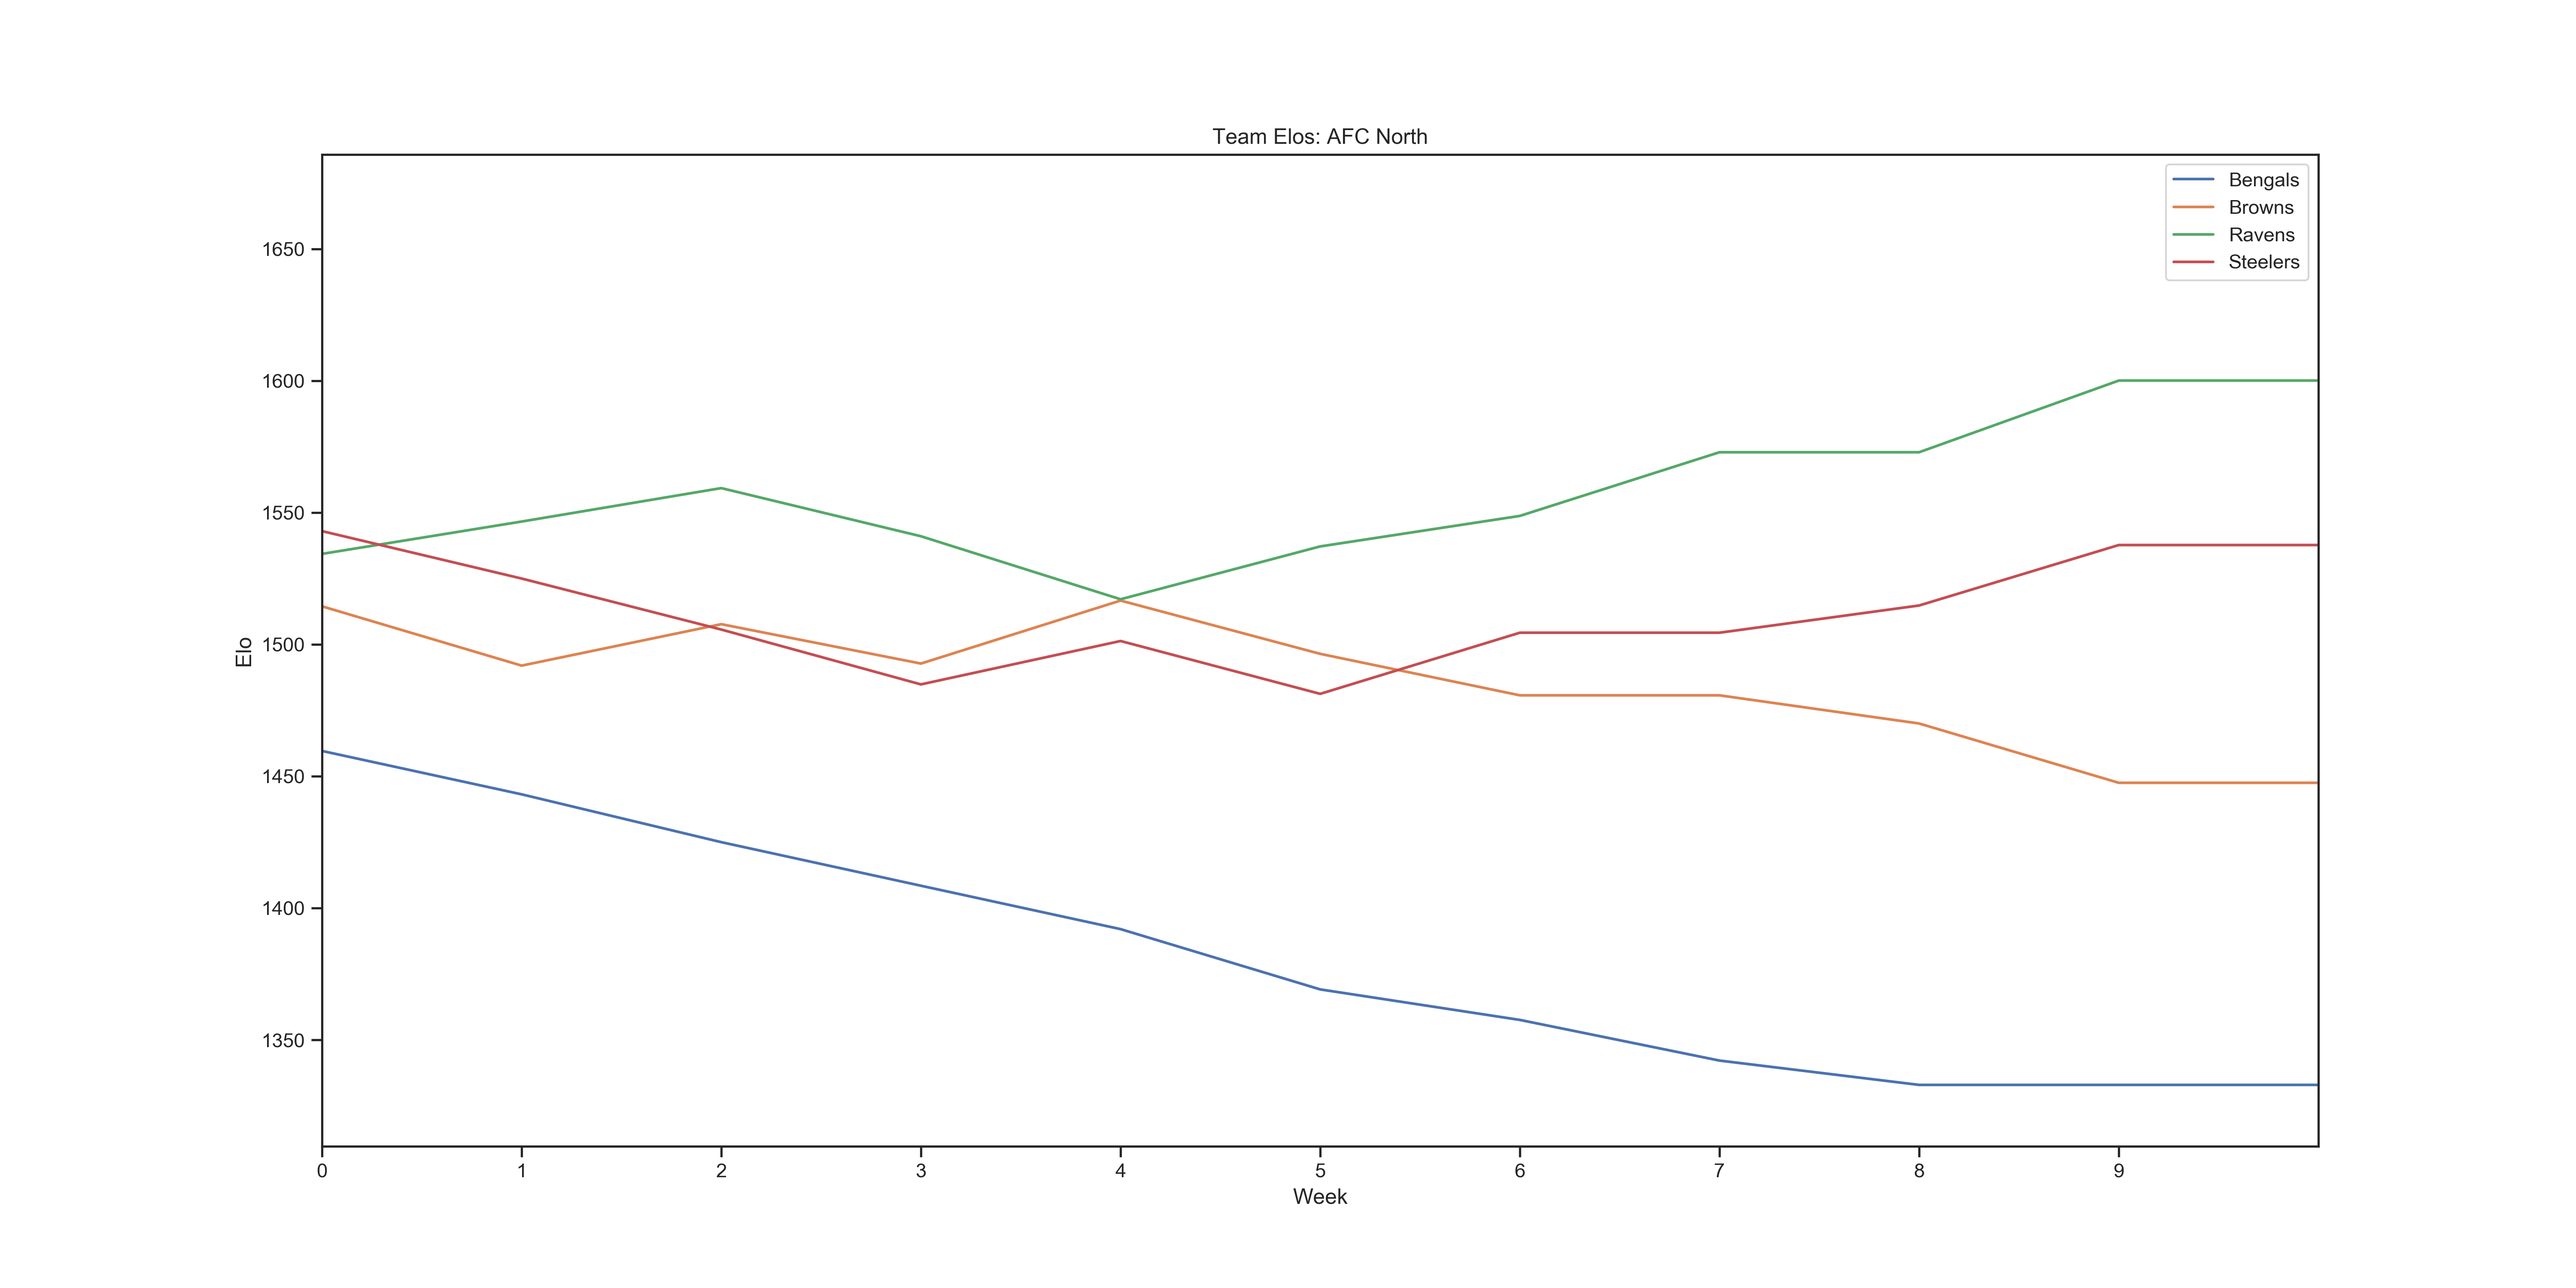
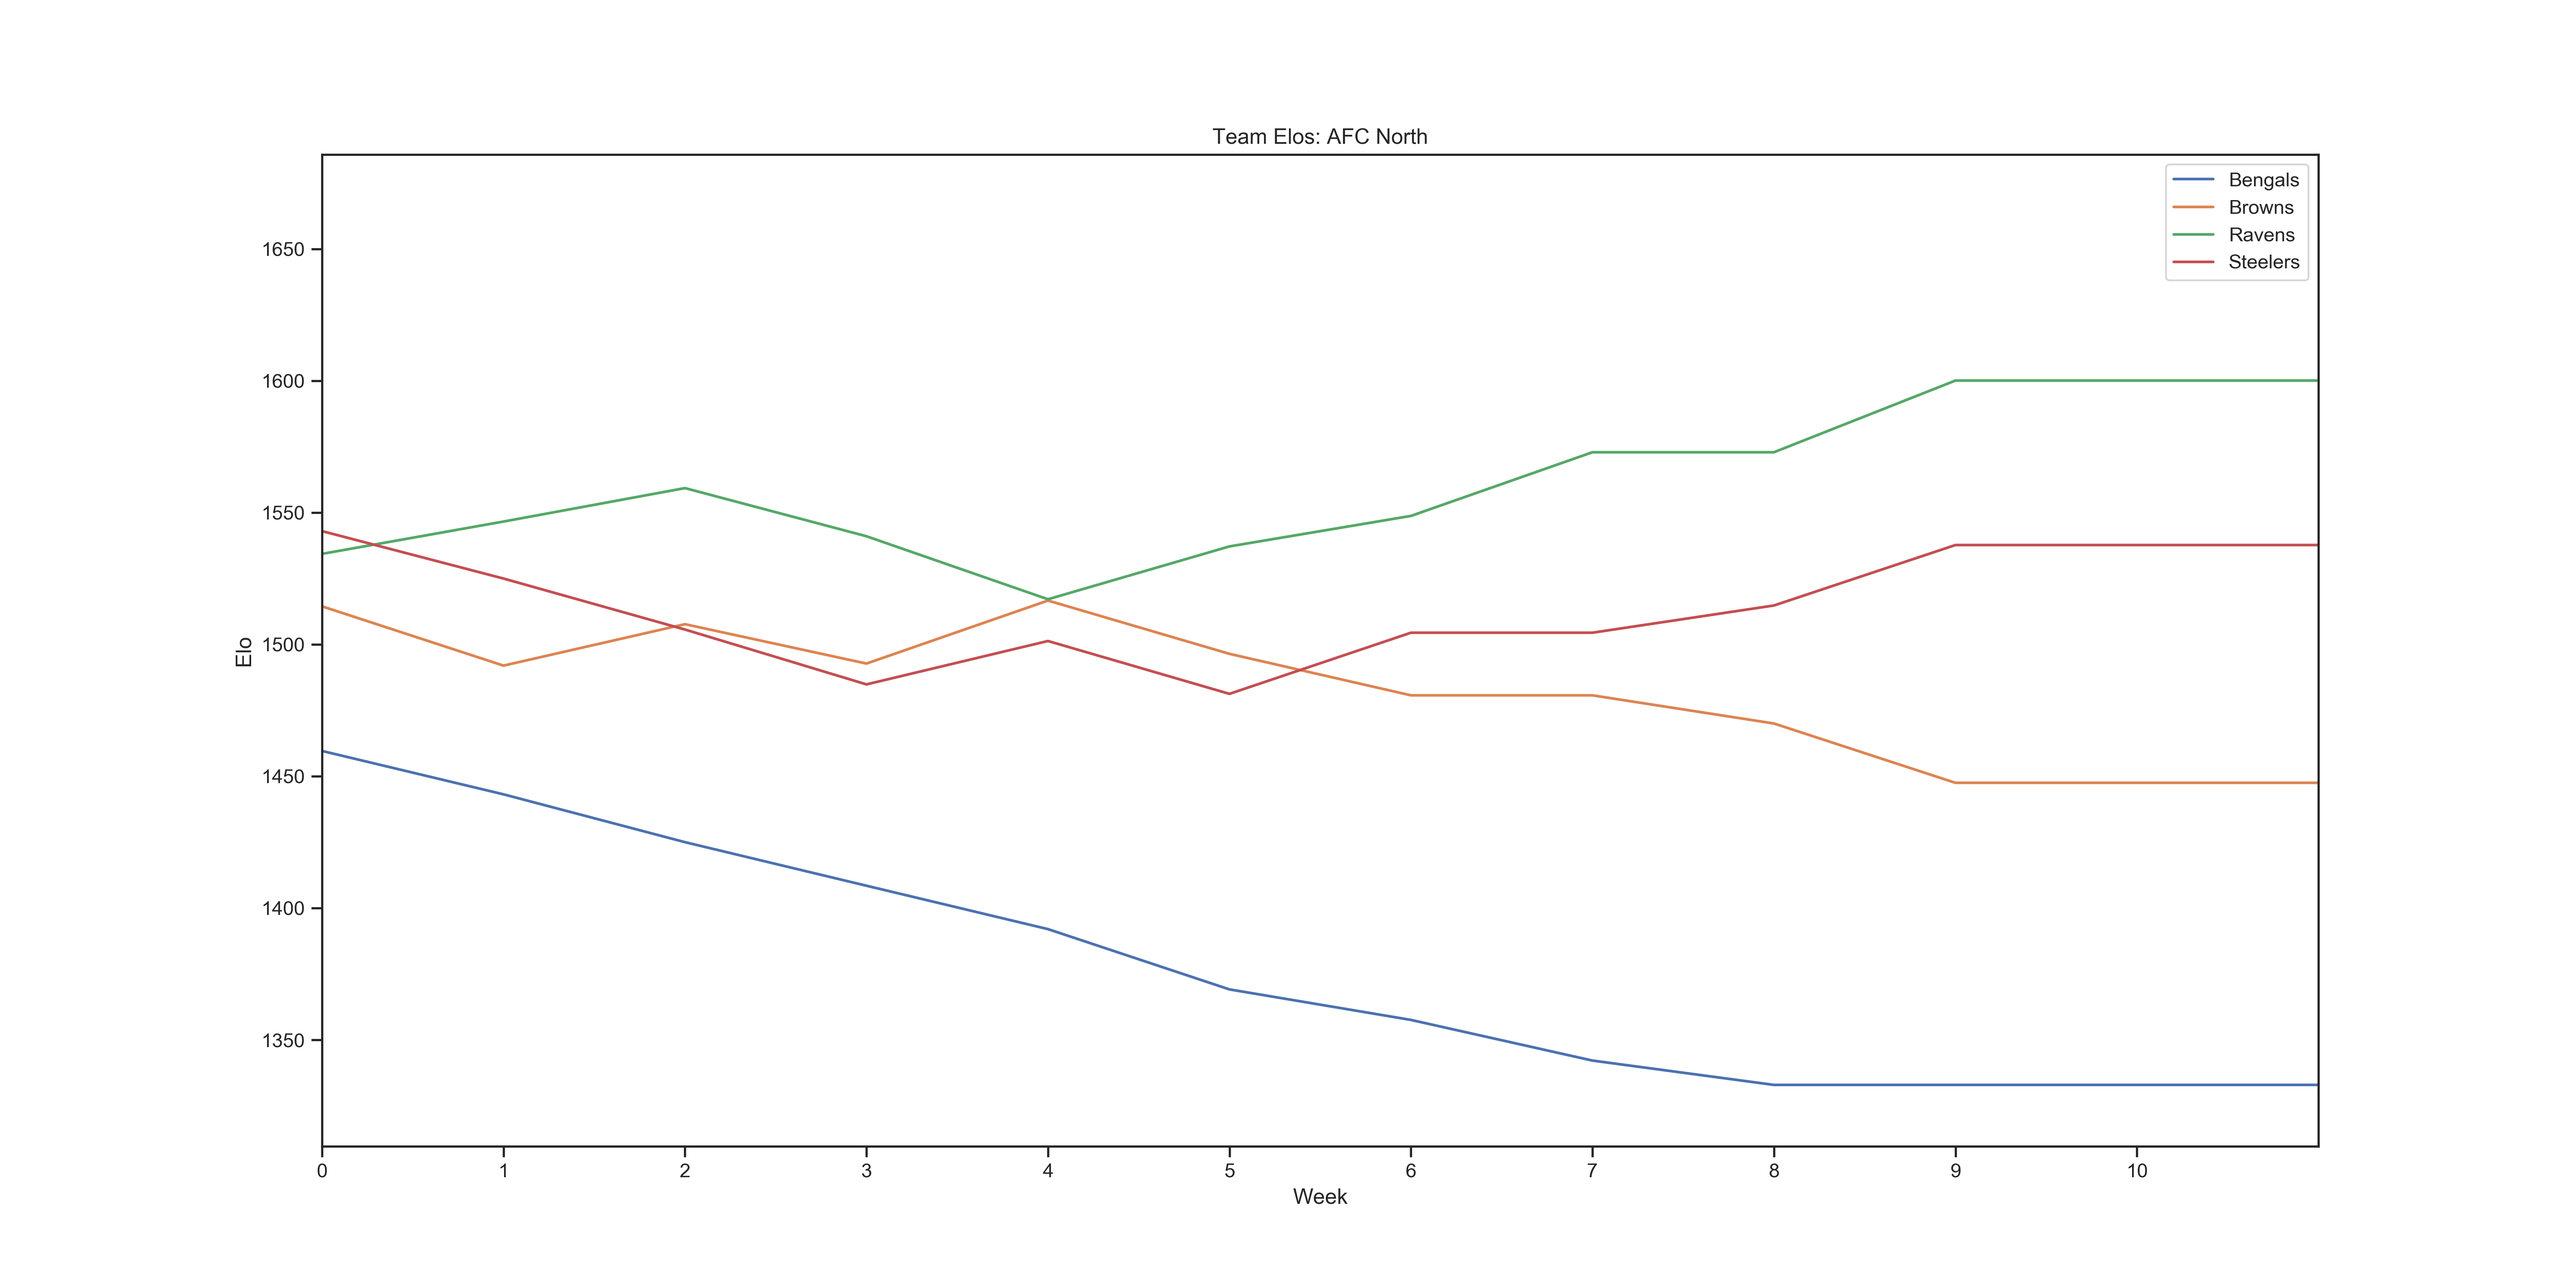
Added Monday and Thursday games

diff --git a/NFLSeason2019.py b/NFLSeason2019.py
@@ -961,9 +961,9 @@ def week_9(teams, week_end_date, week=9):
                              'Ravens', 37, 4, 162, 17, 23, 1, 0, 372,
                              'Patriots', 20, 2, 268, 30, 46, 1, 1, 342)
 
-    # teams = set_game_outcome(teams, week, 0,
-    #                          'Giants', 0, 0, 0, 0, 0, 0, 0, 0,
-    #                          'Cowboys', 0, 0, 0, 0, 0, 0, 0, 0)
+    teams = set_game_outcome(teams, week, 6.5,
+                             'Giants', 18, 1, 171, 26, 41, 1, 1, 271,
+                             'Cowboys', 37, 3, 257, 22, 35, 3, 1, 429)
 
     return teams
 
@@ -973,28 +973,28 @@ def week_10(teams, week_end_date, week=10):
         Predictor.get_week_probabilities(teams, Playoffs.get_week10_schedule(week_end_date))
 
     # Results
-    # teams = set_game_outcome(teams,
-    #                          week=week,
-    #                          spread=0,
-    #                          home_name='Raiders',
-    #                          home_score=0,
-    #                          home_touchdowns=0,
-    #                          home_net_pass_yards=0,
-    #                          home_pass_completions=0,
-    #                          home_pass_attempts=0,
-    #                          home_pass_tds=0,
-    #                          home_interceptions_thrown=0,
-    #                          home_total_yards=0,
-    #                          away_name='Chargers',
-    #                          away_score=0,
-    #                          away_touchdowns=0,
-    #                          away_net_pass_yards=0,
-    #                          away_pass_completions=0,
-    #                          away_pass_attempts=0,
-    #                          away_pass_tds=0,
-    #                          away_interceptions_thrown=0,
-    #                          away_total_yards=0)
-    #
+    teams = set_game_outcome(teams,
+                             week=week,
+                             spread=1,
+                             home_name='Raiders',
+                             home_score=26,
+                             home_touchdowns=2,
+                             home_net_pass_yards=200,
+                             home_pass_completions=21,
+                             home_pass_attempts=31,
+                             home_pass_tds=1,
+                             home_interceptions_thrown=0,
+                             home_total_yards=278,
+                             away_name='Chargers',
+                             away_score=24,
+                             away_touchdowns=3,
+                             away_net_pass_yards=169,
+                             away_pass_completions=17,
+                             away_pass_attempts=31,
+                             away_pass_tds=2,
+                             away_interceptions_thrown=3,
+                             away_total_yards=315)
+
     # teams = set_game_outcome(teams, week, 0,
     #                          'Bengals', 0, 0, 0, 0, 0, 0, 0, 0,
     #                          'Ravens', 0, 0, 0, 0, 0, 0, 0, 0)

diff --git a/PlayoffHelper.py b/PlayoffHelper.py
@@ -632,7 +632,7 @@ def get_superbowl_schedule(week_end_date, get_odds=True):
     return games
 
 
-def monte_carlo(teams, trials=1e3, verbose=False):
+def monte_carlo(teams, trials=1e4, verbose=False):
     """
     Simulates each game outcome based on every team's elo after every game.  Process is repeated a high number of times
     to determine each teams probable final record and playoff standing.
@@ -738,9 +738,14 @@ def monte_carlo(teams, trials=1e3, verbose=False):
         averaged_teams.append(averaged_team)
 
     # For each trial
+    print('_' * 100)
     for trial_num, trial in enumerate(all_trials):
         if verbose:
             print('Getting playoff picture for trial', trial_num)
+        elif trial_num % int(len(all_trials) / 100) == 0:
+            print('█', end='')
+            if trial_num == len(all_trials) - 1:
+                print()
 
         # Get the teams in the playoffs for each trial
         afc_playoff_teams, nfc_playoff_teams = get_playoff_picture(trial)
